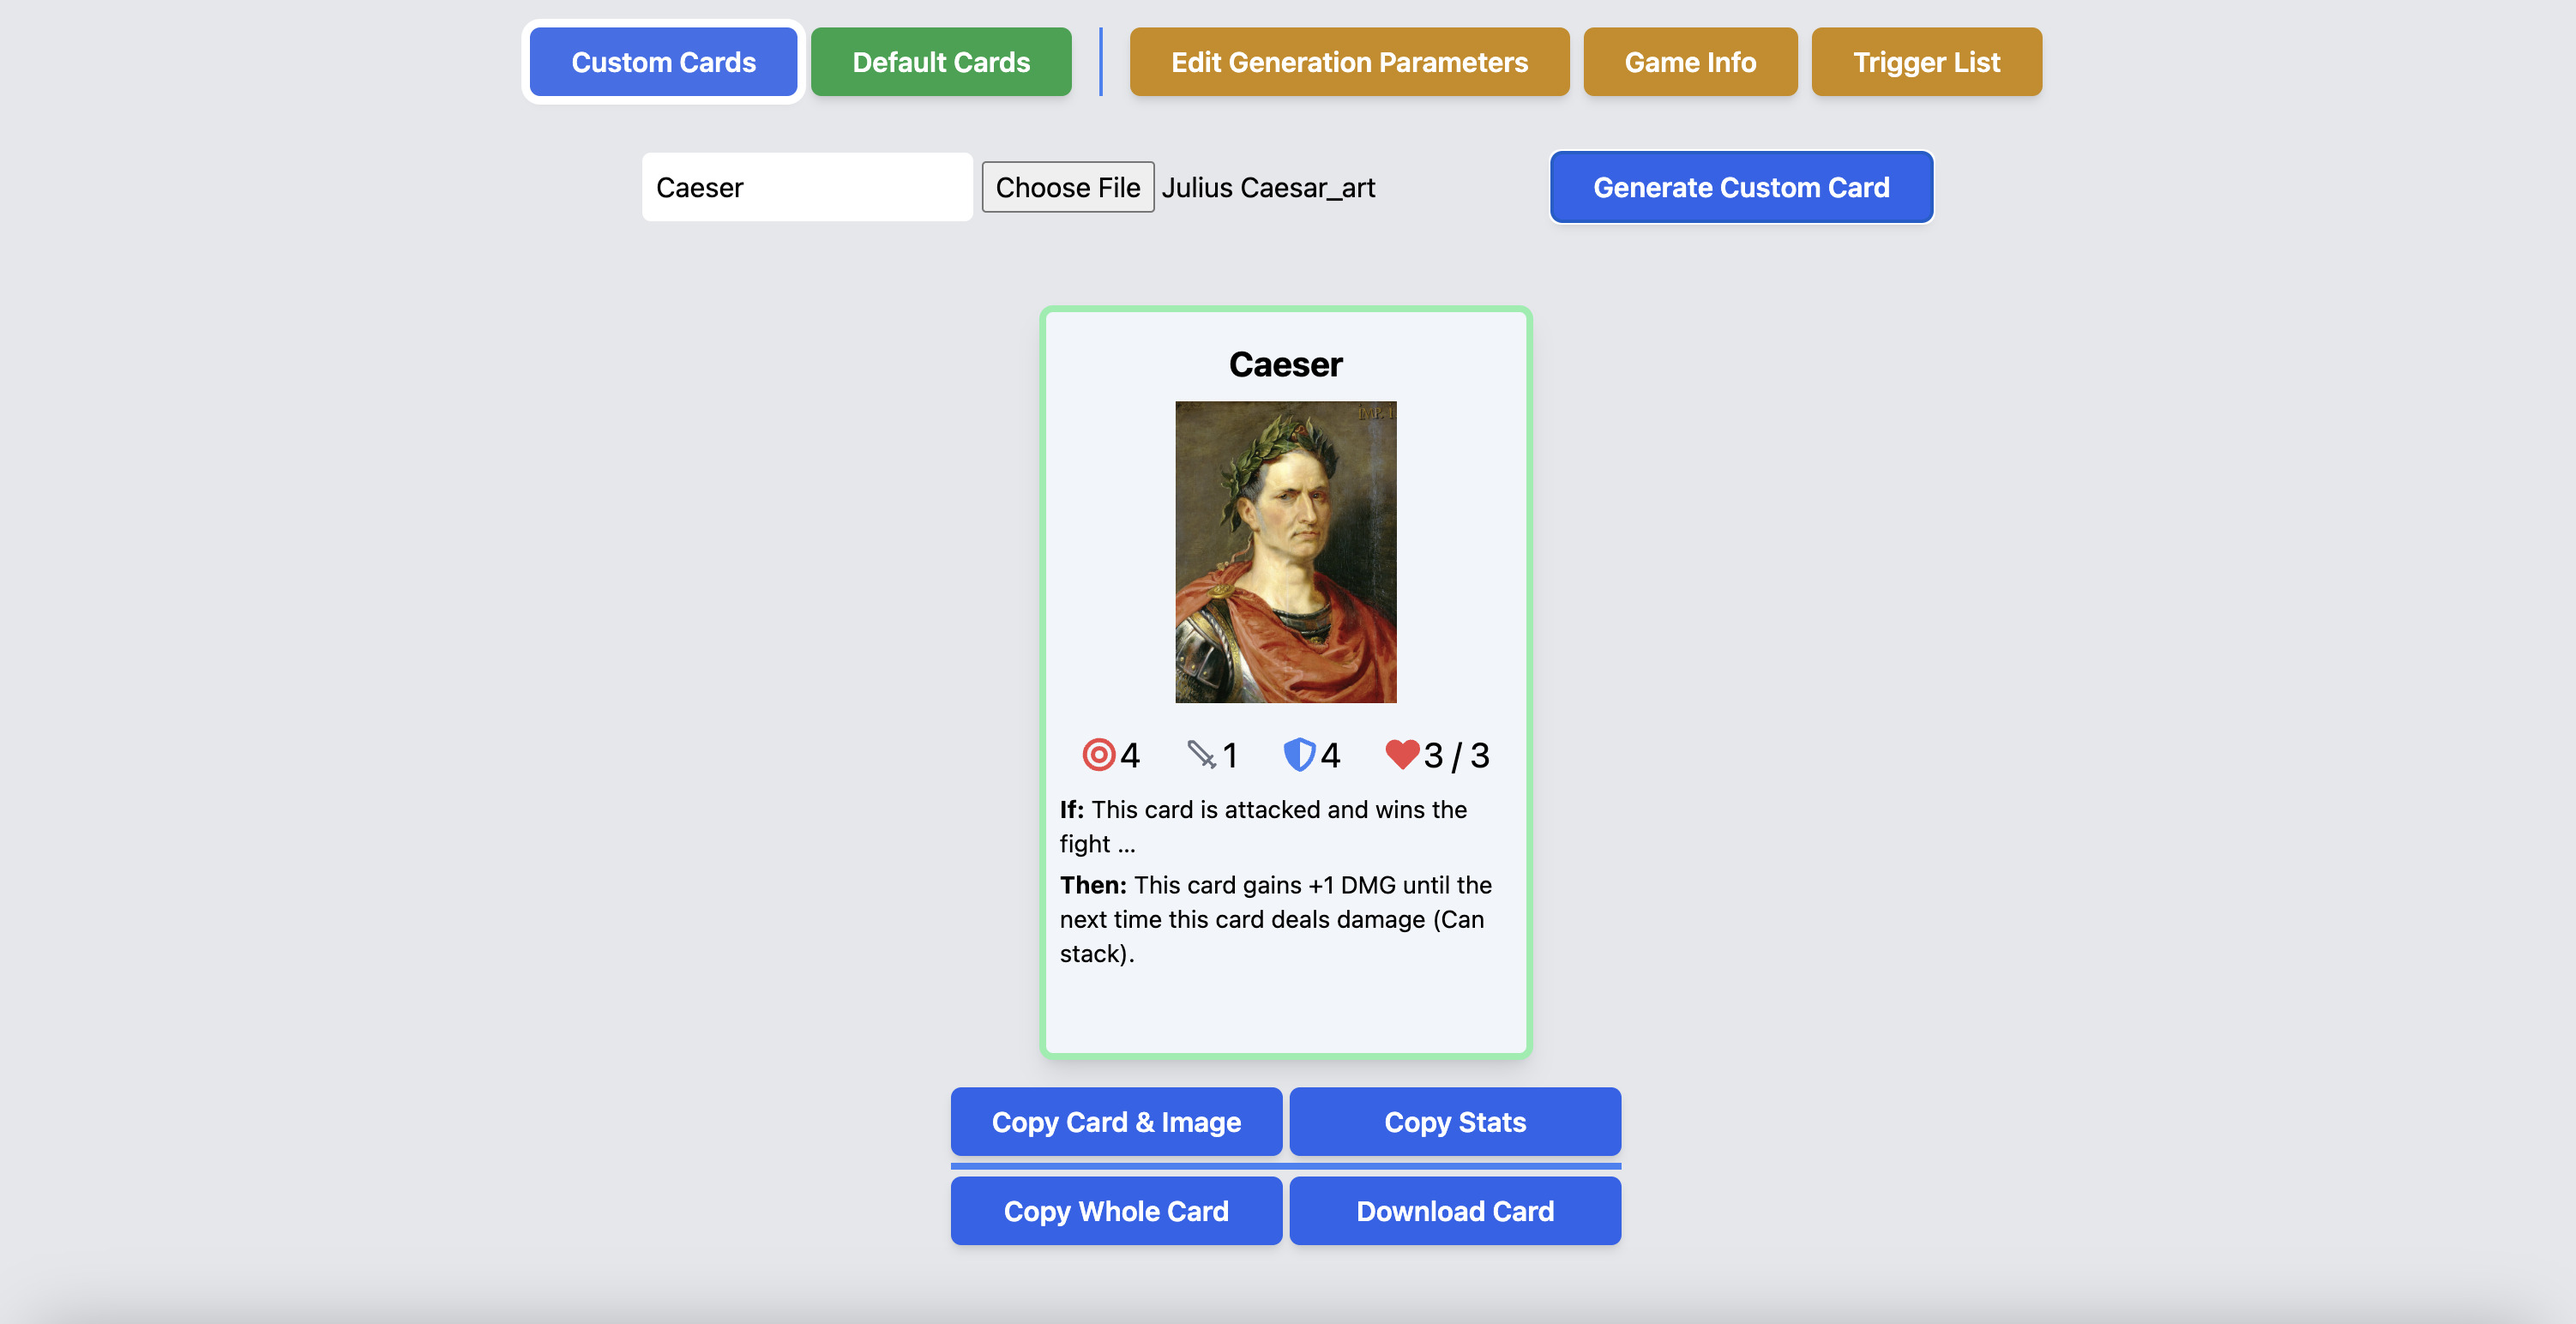
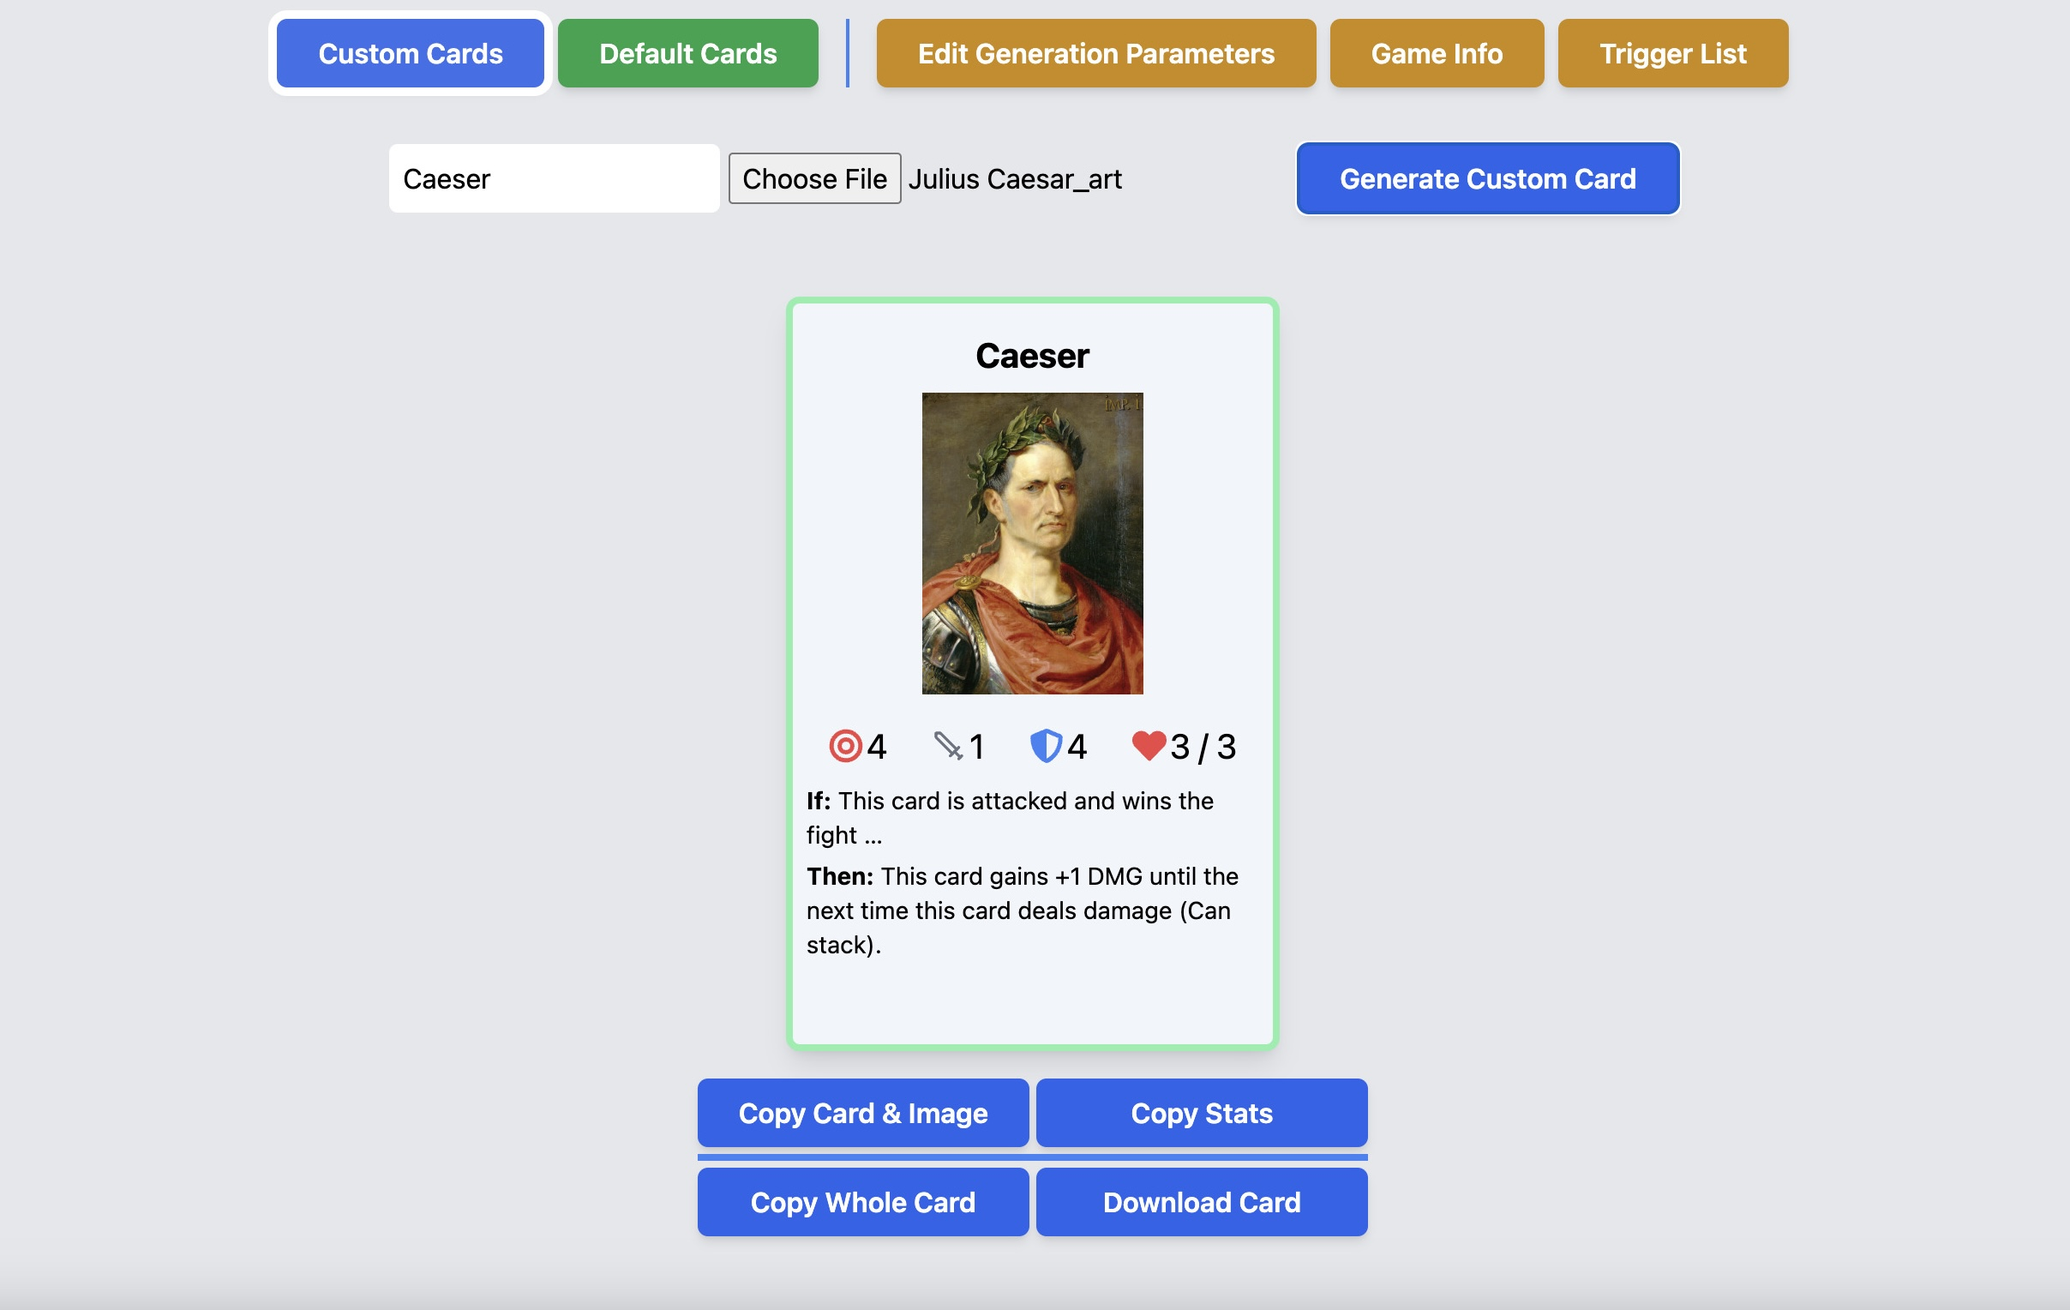
updated Card generator

Changed region(s): [[0.3106, 0.2153, 0.6832, 0.9535], [0.1242, 0.0, 0.8696, 0.1846]]

diff --git a/src/data/projects/CardGenerator.jsx b/src/data/projects/CardGenerator.jsx
@@ -14,23 +14,19 @@
 import IconLibrary from "../iconLibrary";
 
 // Short description (blurb) to be displayed on the project card
-const short = "A React Application with State Management.";
+const short = "A random playing card generator.";
 
 // Long description for the modal page, providing detailed information about the project
 const long = (
   <div className='space-y-2'>
     <p>
-      Built for the Glass Gecko Games team to test card game mechanics before building a Unity game. The application allows users to generate a random playing card using artwork or their own custom images. It uses state management to keep track of the card data and the user's settings.
+      Built for the Glass Gecko Games team to test card game mechanics before building a Unity game. The application allows users to generate a random playing card using artwork or their own custom images. It uses <span className="font-bold">state management</span> to keep track of the card data and the user's settings.
     </p>
     <p>
-      It features a clean and responsive UI, with a simple design that allows users to easily generate a card and download an image. The application is deployed using Netlify.
+      It features a clean and <span className="font-bold">responsive UI</span>, with a simple design that allows users to easily generate a card and download an image. The application is deployed using Netlify.
     </p>
   </div>
 );
-
-const features = [
-  "Mod",
-];
 
 export const cardGenerator = {
   starred: true,
@@ -39,12 +35,12 @@ export const cardGenerator = {
   tag: "UX/UI",
   blurb: short,
   description: long,
-  features: features,
   images: [
     { src: "cardGenerator1.jpg", blurhash: "LDPjP,bc~VxC$uW?NPr=DkWs%Ks8" },
     { src: "cardGenerator2.jpg", blurhash: "LLONRkWDkCjJ~Mj[ofayEBj[oJbF" },
     { src: "cardGenerator3.jpg", blurhash: "LCPs*Qo#~oni$vkWNiV@9Hbc%Ji_" },
-
+    { src: "cardGenerator4.jpg", blurhash: "LCPs*Qo#~oni$vkWNiV@9Hbc%Ji_" },
+    { src: "cardGenerator5.jpg", blurhash: "LCPs*Qo#~oni$vkWNiV@9Hbc%Ji_" },
   ],
   mainStack: [
     IconLibrary.REACT,

diff --git a/src/components/homeSections/projects/ProjectImageCarousel.jsx b/src/components/homeSections/projects/ProjectImageCarousel.jsx
@@ -59,8 +59,14 @@ const ProjectImageCarousel = ({ images, id, title, hidePhotos=false }) => {
           hasMediaButton={false}
           hasThumbnails={true}
           hasIndexBoard={false}
-          className="max-h-96 md:max-h-102 lg:max-h-80 xl:max-h-96 2xl:max-h-108"
-          objectFit="contain"
+          className="max-h-96 md:max-h-102 lg:max-h-80 xl:max-h-96 2xl:max-h-108 "
+          objectFit="cover"
+          objectFitAtMax="contain"
+          style={{
+            display: 'flex',
+            alignItems: 'center', // Vertically centers content
+            justifyContent: 'center', // Horizontally centers content
+          }}
           shouldLazyLoad={true} 
           // hasSizeButton={false}
           leftIcon = {<FaChevronLeft size={40} className="text-opacity-45 text-black hover:text-accent" />}
